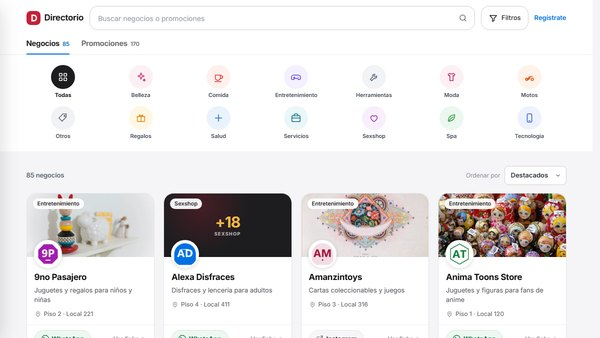
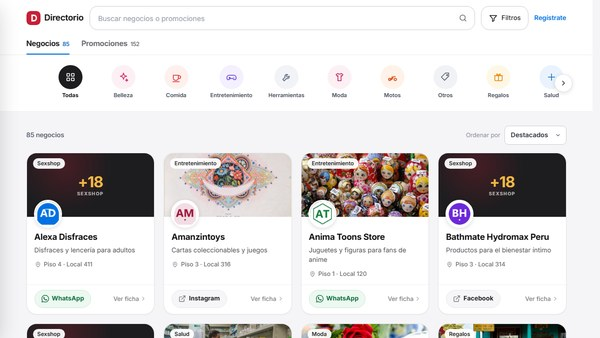
Refresh Demo 1 homepage cover
Replace the outdated preview with a current screenshot and version its URL to bypass browser caches.

diff --git a/index.html b/index.html
@@ -122,7 +122,7 @@
             <div class="grid">
                 <a class="card" href="demos/1/">
                     <div class="thumb">
-                        <img src="assets/img/demo-1-portada.jpg" alt="Directorio, Minimalista" width="600" height="338">
+                        <img src="assets/img/demo-1-portada.jpg?v=2" alt="Directorio, Minimalista" width="600" height="338">
                     </div>
                     <div class="body">
                         <span class="num">DEMO 1</span>
